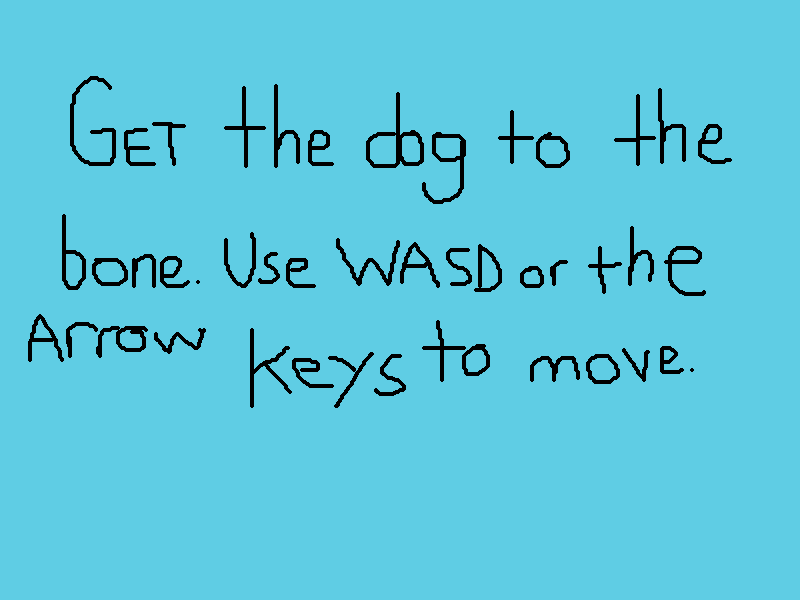
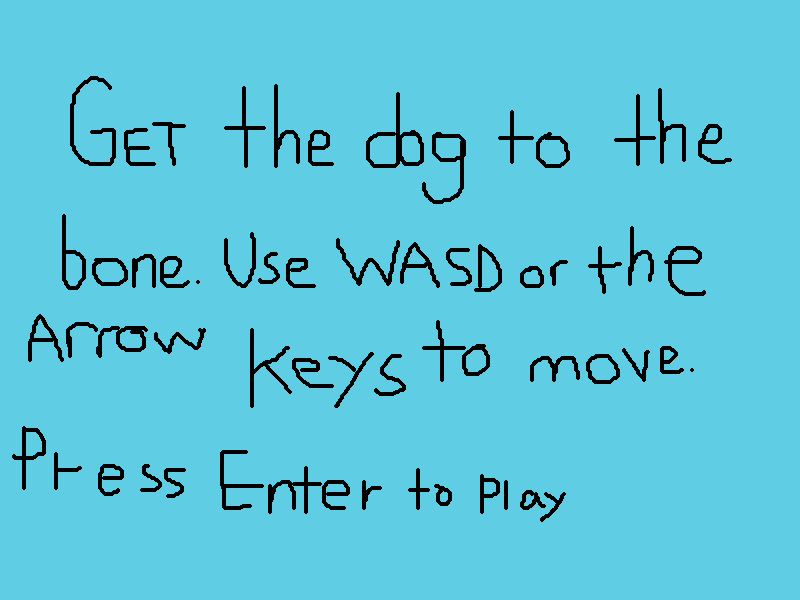
final changes made

Changed region(s): [[0.0, 0.69, 0.4688, 0.87], [0.5938, 0.78, 0.7188, 0.87], [0.5, 0.78, 0.5625, 0.84]]

diff --git a/game.js b/game.js
@@ -8,10 +8,13 @@ var gameStage = new PIXI.Container();
 //var startStage = new PIXI.Container();
 
 //var gameStart = false;
-var start = new PIXI.Sprite(PIXI.Texture.fromImage("instructions2.png"));
-start.position.x = 0;
-start.position.y = 0;
-//start.visible = true;
+var title = new PIXI.Sprite(PIXI.Texture.fromImage('title.png'));
+
+var credits = new PIXI.Sprite(PIXI.Texture.fromImage("credits.png"));
+
+var start = new PIXI.Sprite(PIXI.Texture.fromImage("instructions1.png"));
+
+
 
 //document.addEventListener('onclick', start.visible = false);
 //startStage.addChild(gameStage);
@@ -21,8 +24,18 @@ start.position.y = 0;
 
 PIXI.loader.add("assets.json").load(ready);
 PIXI.loader.add("gameMusic.mp3").load(soundready);
+
+var backPicture = new PIXI.Sprite(PIXI.Texture.fromImage("background.png"));
+backPicture.position.x = 0;
+backPicture.position.y = 0;
+gameStage.addChild(backPicture);
     
 var obstacles = new PIXI.Container();
+var loseTexture = new PIXI.Sprite(PIXI.Texture.fromImage("lose.png"));
+var lose = new PIXI.Text("You got in a fight with the cat and lost.", {font:"30px Times New Roman", fill: "#fff"})
+var winTexture = new PIXI.Sprite(PIXI.Texture.fromImage("winCollision.png"));
+gameStage.addChild(lose);
+
 
 
     
@@ -80,13 +93,16 @@ function ready() {
     kitty.position.y = 345;
     kitty.position.x = 300;
     var target = {x: 500, y: 345};
-    if (kitty.position.x = 300){
-        var tween = createjs.Tween.get(kitty.position).to(target, 3000);
-        
-    }
-    kitty.position.x = 500;
-    if (kitty.position.x = 500)
-        var tweenBack = createjs.Tween.get(kitty.position).to({x:300, y:345}, 3000);
+    createjs.Tween.get(kitty.position, {loop:true})
+    .to({x:500}, 3000)
+    .to({x:300}, 3000);
+    // var tween = createjs.Tween.get(kitty.position).to(target, 3000);
+    // var tweenBack = createjs.Tween.get(kitty.position).to({x:300, y:345}, 3000);
+    // tween.onMotionFinished = function() {
+    //     this.setFunc (tweenBack);
+    //     this.yoyo;
+    //     delete this.onMotionFinished;
+    //     }
     //tween.yoyo(true, 3000);
     
     bone.position.x = 750;
@@ -143,25 +159,48 @@ function ready() {
     obstacles.addChild(level5);
     obstacles.addChild(level6);
 
+    winTexture.position.x = 0;
+    winTexture.position.y = 0;
+    winTexture.visible = false;
+    gameStage.addChild(winTexture);
+    
+    
+    start.position.x = 0;
+    start.position.y = 0;
+    gameStage.addChild(start);
+    
+    credits.position.x = 0;
+    credits.position.y = 0;
+    gameStage.addChild(credits);
+    
+    title.position.x = 0;
+    title.position.y = 0;
+    gameStage.addChild(title);
+    
+    
+    
+
+
+
+    loseTexture.position.x = 0;
+    loseTexture.position.y = 0;
+    lose.position.x = 200;
+    lose.position.y = 200;
+    loseTexture.visible = false;
+    lose.visible = false;
+    gameStage.addChild(loseTexture);
 
     //gameStage.addChild(doggy);
 }
 
 
 
-var gameOverTexture = new PIXI.Sprite(PIXI.Texture.fromImage("gameover.png"));
-gameOverTexture.position.x = 0;
-gameOverTexture.position.y = 0;
-gameOverTexture.visible = false;
-gameStage.addChild(gameOverTexture);
+
 
 
 var keys = {};
 
-// function mouseHandler(e) {
-//     gameStage.visible = true;
-//     gameStart = true;
-//}
+
 
 function keyupEventHandler(e) {
     runner.stop();
@@ -170,10 +209,18 @@ function keyupEventHandler(e) {
 
 function keydownEventHandler(e) {
     keys[e.which] = true;
+    title.visible = false;
     runner.play();
-    if([32, 37, 38, 39, 40].indexOf(e.keyCode) > -1) {
+    if([32, 37, 38, 39, 40, 9].indexOf(e.keyCode) > -1) {
         e.preventDefault();
     }
+    if([9].indexOf(e.keyCode) > -1) {
+        credits.visible = false;
+    }
+    if([13].indexOf(e.keyCode) > -1) {
+        start.visible = false;
+    }
+    
 }
 
 document.addEventListener('keydown', keydownEventHandler);
@@ -207,6 +254,8 @@ function animate() {
     movePlayer();
     //sprite.rotation += 0.1;
     collision();
+    winningCollision();
+    catCollision();
     renderer.render(gameStage);
 }
 animate();
@@ -219,22 +268,31 @@ function collision() {
            
             //document.removeEventListener('keydown', keydownEventHandler);
         }
-        return false;
+        //return false;
 
     
     }
 }
 
-// function winningCollision() {
-//     var bricks = obstacles.children;
-//     for (var i = 0; i < bricks.length; i++){
-//         if (!(bricks[i].position.x > (runner.position.x + runner.width) || (bricks[i].position.x + bricks[i].width) < runner.position.x || bricks[i].position.y > (runner.position.y + runner.height) || (bricks[i].position.y + bricks[i].height) < runner.position.y)){
-//             //winTexture.visible;
-//             document.removeEventListener('keydown', keydownEventHandler);
-//         }
-//         return false;
+function catCollision() {
+    if (!(kitty.position.x > (runner.position.x + runner.width) || (kitty.position.x + kitty.width) < runner.position.x || kitty.position.y > (runner.position.y + runner.height) || (kitty.position.y + kitty.height) < runner.position.y)){
+            loseTexture.visible = true;
+            lose.visible = true
+            document.removeEventListener('keydown', keydownEventHandler);
+        
 
     
-//     }
-// }
+    }
+}
+
+function winningCollision() {
+
+        if (!(bone.position.x > (runner.position.x + runner.width) || (bone.position.x + bone.width) < runner.position.x || bone.position.y > (runner.position.y + runner.height) || (bone.position.y + bone.height) < runner.position.y)){
+            winTexture.visible = true;
+            document.removeEventListener('keydown', keydownEventHandler);
+        
+
+    
+    }
+}
 

diff --git a/index.html b/index.html
@@ -1,13 +1,14 @@
 <html>
     <head>
-        <title>Hello world!</title>
+        <title>Pluto's Mission</title>
     </head>
     <body>
-        <h1>Game</h1>
+        <h1>Pluto's Mission</h1>
         <div id="gameport"></div>
         
         <h1>Instructions</h1>
-        <p>How to play my game..</p>
+        <p>Use WASD or the arrow keys to move. The goal is the get the dog to the bone.</p>
+        <p>Watch out for the cat and stay away from the walls or else you'll get stuck.</p>
         
         <h1>Comments</h1>
         <div id="disqus_thread"></div>
